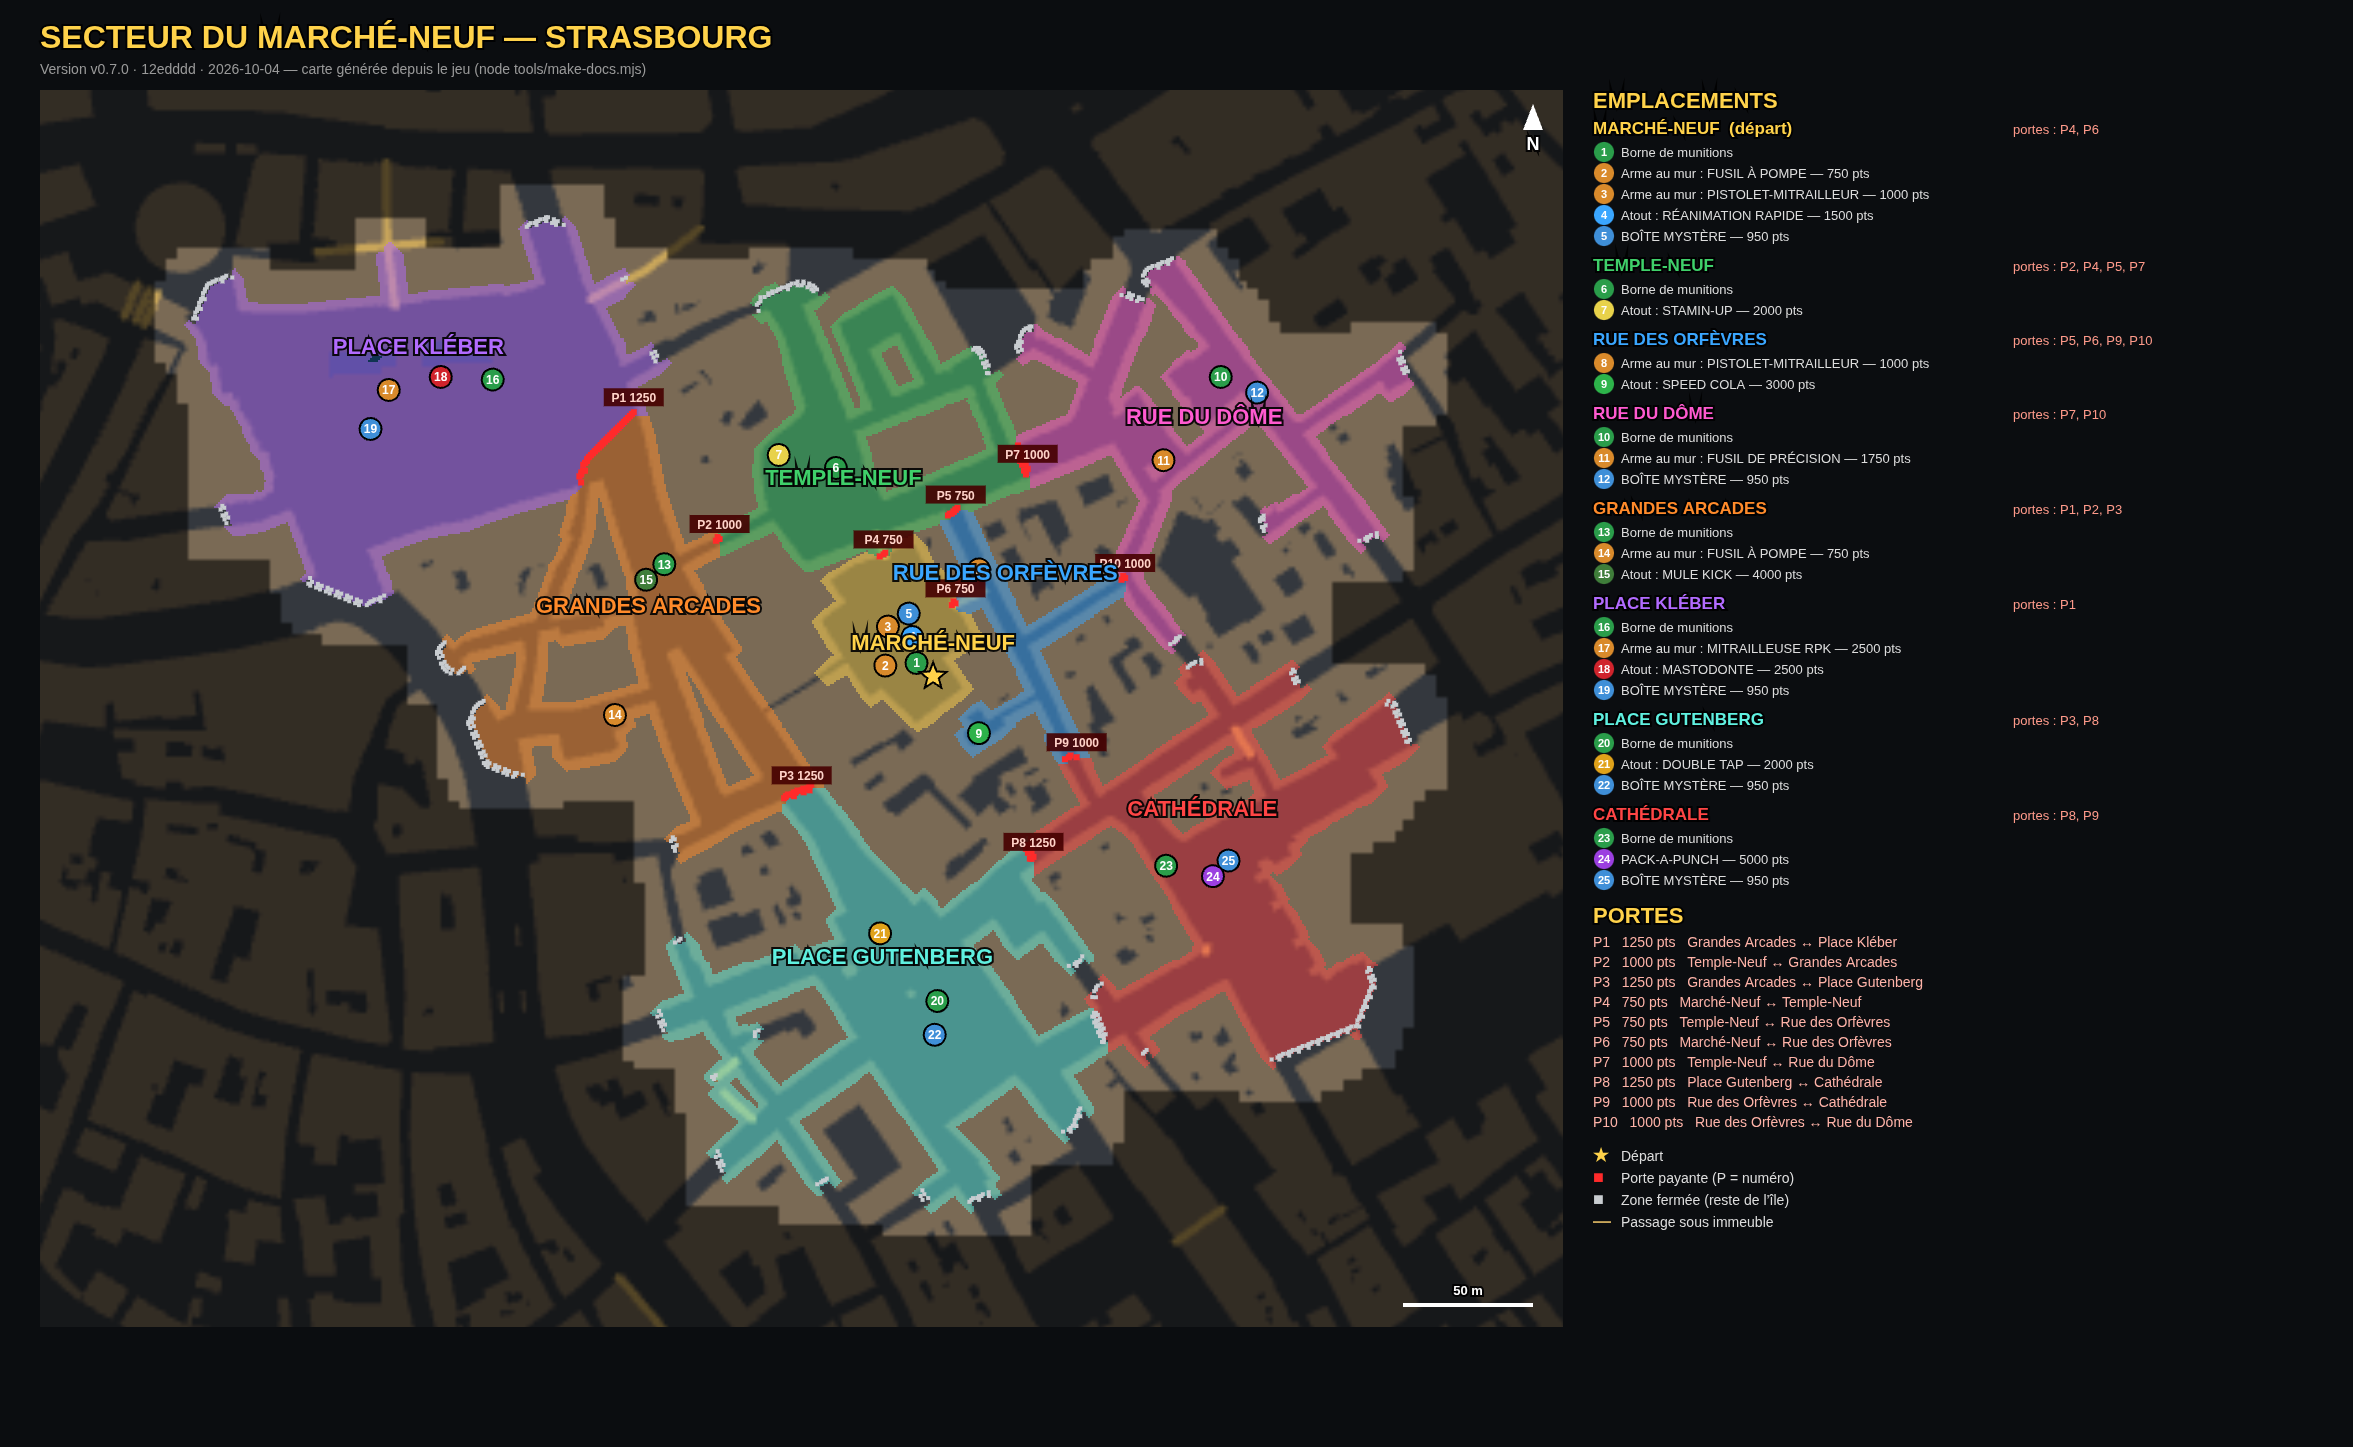
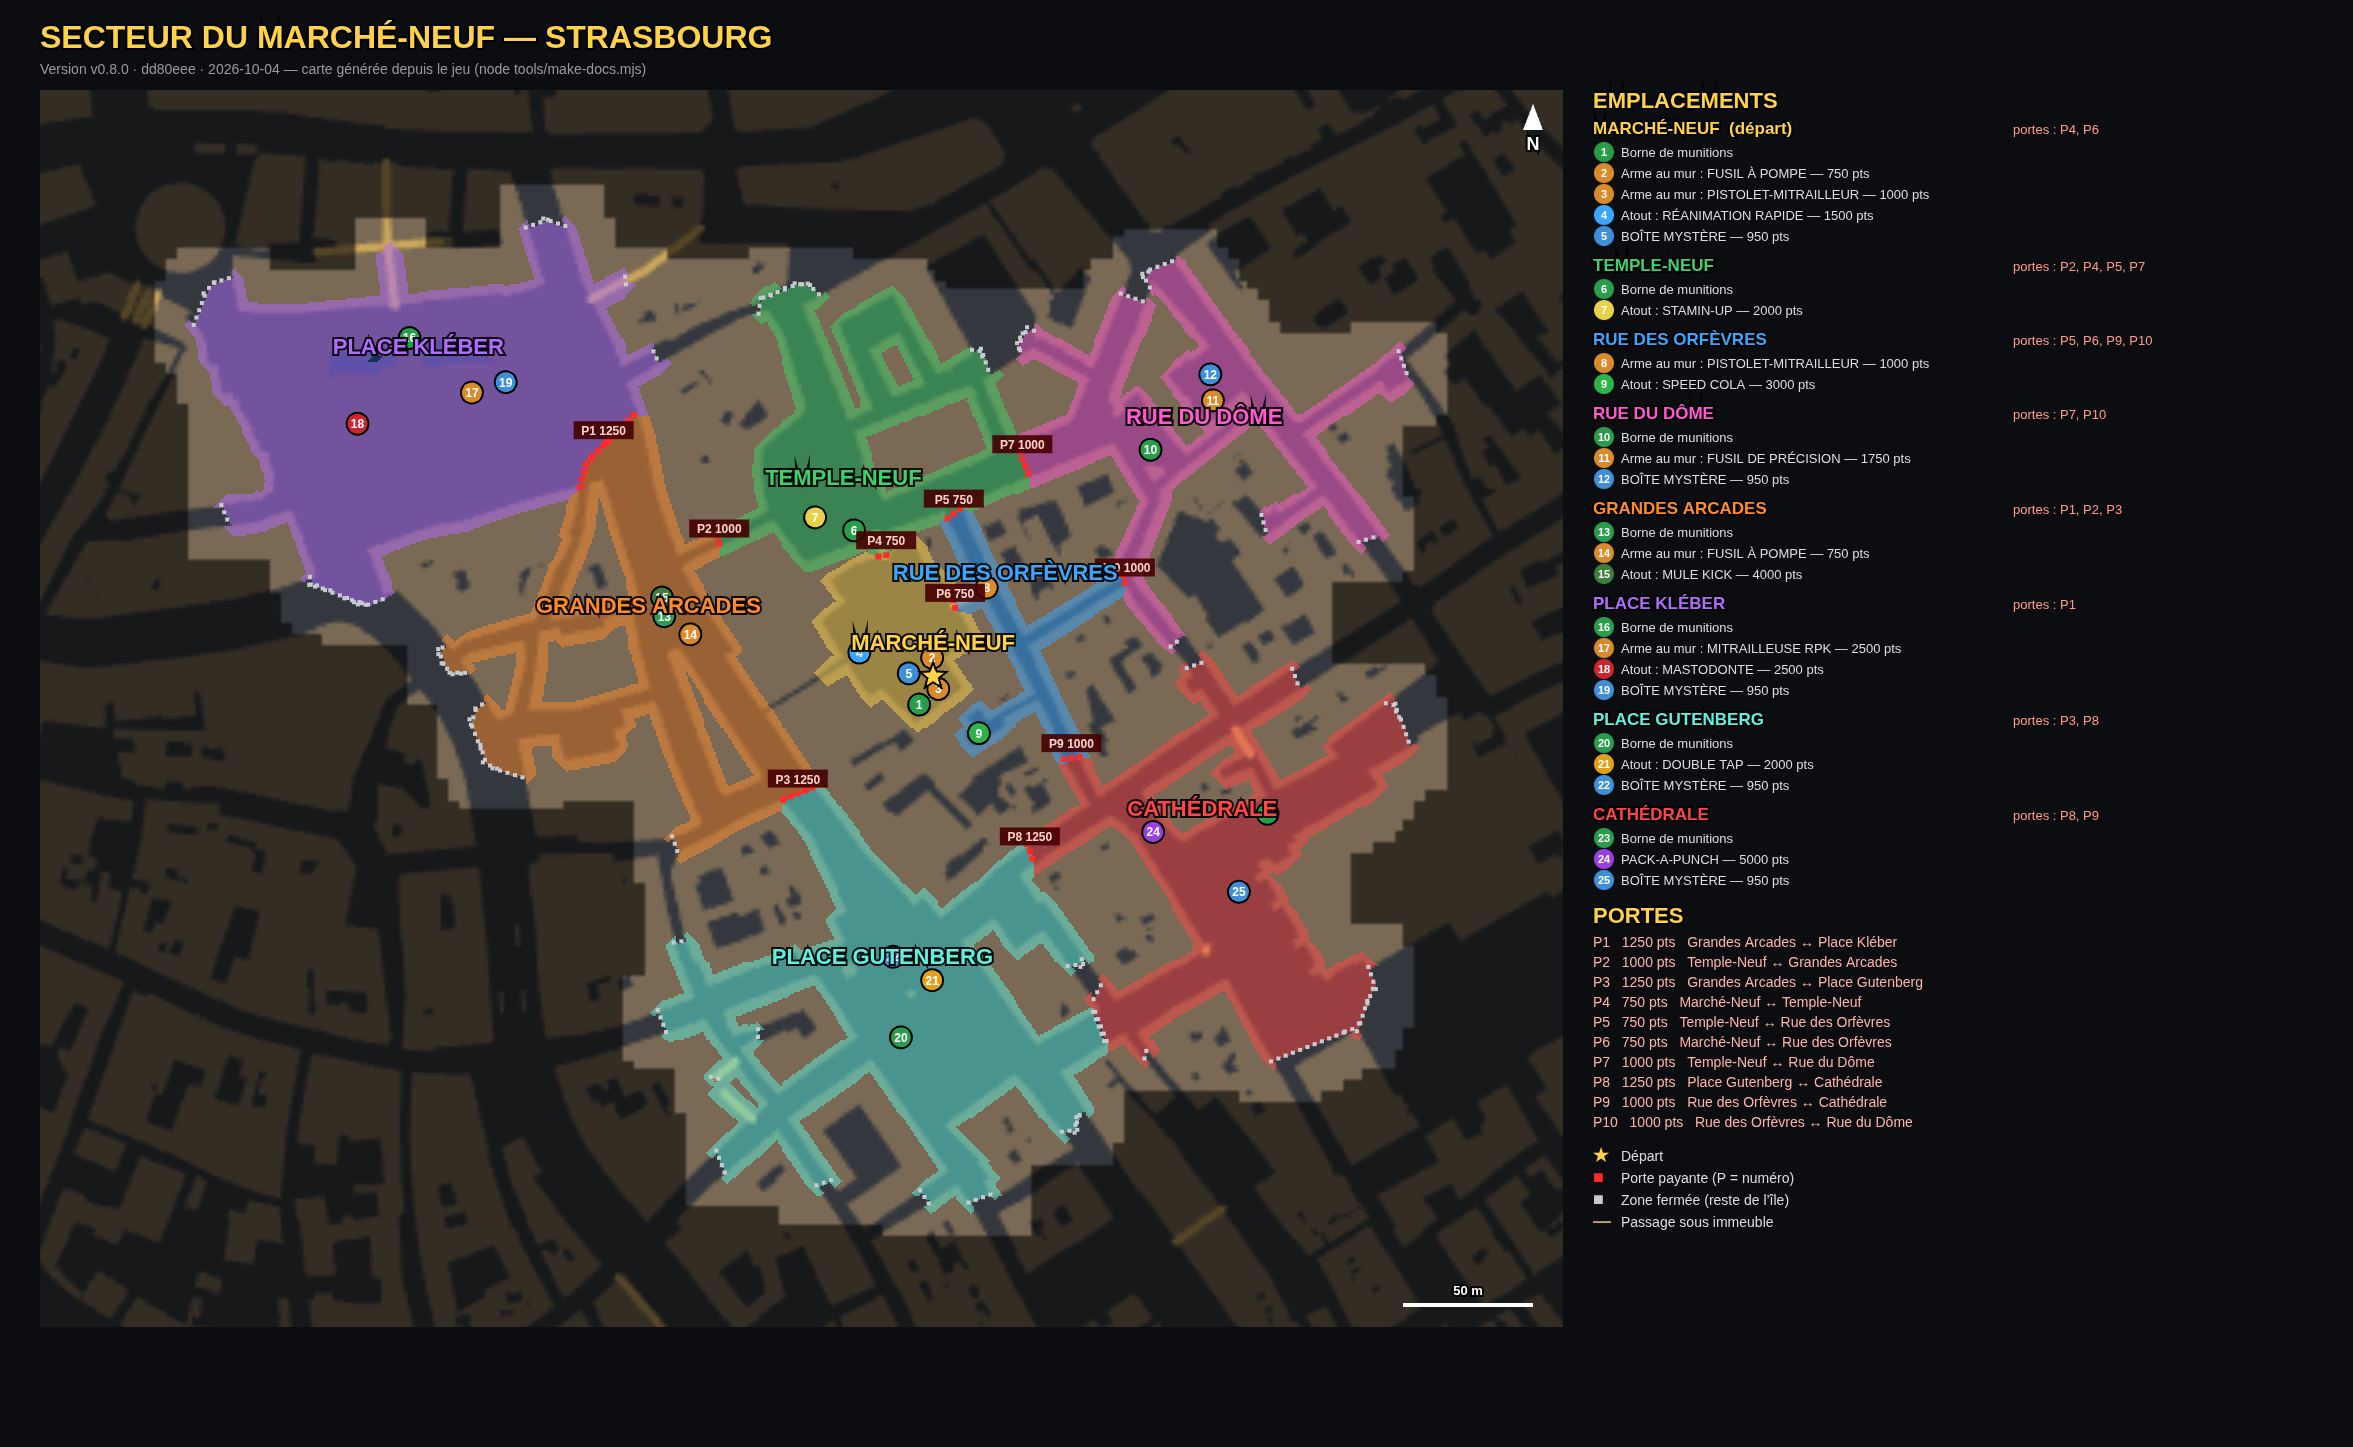
Regenerate docs (v0.8.0)

diff --git a/docs/REFERENCE.md b/docs/REFERENCE.md
@@ -1,6 +1,6 @@
 # Zombie Survival — fiche de référence
 
-Version du jeu : **v0.7.0 · 12edddd · 2026-10-04** (package 0.7.0). Générée automatiquement par `node tools/make-docs.mjs` à partir de `src/config.js` et du jeu.
+Version du jeu : **v0.8.0 · dd80eee · 2026-10-04** (package 0.8.0). Générée automatiquement par `node tools/make-docs.mjs` à partir de `src/config.js` et du jeu.
 Carte annotée : [carte.png](carte.png). Les mêmes tableaux en tableur : dossier [csv/](csv/).
 
 Pour demander une modification, citez la ligne (ex. « Mitrailleuse RPK : chargeur 100 », « Mastodonte à 3000 pts », « porte P3 à 500 pts », « mettre la boîte mystère dans la zone Temple-Neuf »).
@@ -188,31 +188,31 @@ Prix des portes : 750 pts pour une zone voisine du départ, +250 par zone plus l
 
 | N° sur la carte | Type | Nom | Zone | Prix (pts) | x (m, vers l'est) | z (m, vers le sud) |
 |---|---|---|---|---|---|---|
-| 1 | Borne de munitions | Borne de munitions | Marché-Neuf |  | -7 | -36 |
-| 2 | Arme au mur | FUSIL À POMPE | Marché-Neuf | 750 | -19 | -35 |
-| 3 | Arme au mur | PISTOLET-MITRAILLEUR | Marché-Neuf | 1000 | -18 | -50 |
-| 4 | Atout | RÉANIMATION RAPIDE | Marché-Neuf | 1500 | -14 | -46 |
-| 5 | BOÎTE MYSTÈRE | BOÎTE MYSTÈRE | Marché-Neuf | 950 | -10 | -55 |
-| 6 | Borne de munitions | Borne de munitions | Temple-Neuf |  | -38 | -111 |
-| 7 | Atout | STAMIN-UP | Temple-Neuf | 2000 | -60 | -116 |
-| 8 | Arme au mur | PISTOLET-MITRAILLEUR | Rue des Orfèvres | 1000 | 17 | -72 |
+| 1 | Borne de munitions | Borne de munitions | Marché-Neuf |  | -6 | -20 |
+| 2 | Arme au mur | FUSIL À POMPE | Marché-Neuf | 750 | -1 | -38 |
+| 3 | Arme au mur | PISTOLET-MITRAILLEUR | Marché-Neuf | 1000 | -4 | -26 |
+| 4 | Atout | RÉANIMATION RAPIDE | Marché-Neuf | 1500 | -29 | -40 |
+| 5 | BOÎTE MYSTÈRE | BOÎTE MYSTÈRE | Marché-Neuf | 950 | -10 | -32 |
+| 6 | Borne de munitions | Borne de munitions | Temple-Neuf |  | -31 | -87 |
+| 7 | Atout | STAMIN-UP | Temple-Neuf | 2000 | -46 | -92 |
+| 8 | Arme au mur | PISTOLET-MITRAILLEUR | Rue des Orfèvres | 1000 | 20 | -65 |
 | 9 | Atout | SPEED COLA | Rue des Orfèvres | 3000 | 17 | -9 |
-| 10 | Borne de munitions | Borne de munitions | Rue du Dôme |  | 110 | -146 |
-| 11 | Arme au mur | FUSIL DE PRÉCISION | Rue du Dôme | 1750 | 88 | -114 |
-| 12 | BOÎTE MYSTÈRE | BOÎTE MYSTÈRE | Rue du Dôme | 950 | 124 | -140 |
-| 13 | Borne de munitions | Borne de munitions | Grandes Arcades |  | -104 | -74 |
-| 14 | Arme au mur | FUSIL À POMPE | Grandes Arcades | 750 | -123 | -16 |
-| 15 | Atout | MULE KICK | Grandes Arcades | 4000 | -111 | -68 |
-| 16 | Borne de munitions | Borne de munitions | Place Kléber |  | -170 | -145 |
-| 17 | Arme au mur | MITRAILLEUSE RPK | Place Kléber | 2500 | -210 | -141 |
-| 18 | Atout | MASTODONTE | Place Kléber | 2500 | -190 | -146 |
-| 19 | BOÎTE MYSTÈRE | BOÎTE MYSTÈRE | Place Kléber | 950 | -217 | -126 |
-| 20 | Borne de munitions | Borne de munitions | Place Gutenberg |  | 1 | 94 |
-| 21 | Atout | DOUBLE TAP | Place Gutenberg | 2000 | -21 | 68 |
-| 22 | BOÎTE MYSTÈRE | BOÎTE MYSTÈRE | Place Gutenberg | 950 | 0 | 107 |
-| 23 | Borne de munitions | Borne de munitions | Cathédrale |  | 89 | 42 |
-| 24 | PACK-A-PUNCH | PACK-A-PUNCH | Cathédrale | 5000 | 107 | 46 |
-| 25 | BOÎTE MYSTÈRE | BOÎTE MYSTÈRE | Cathédrale | 950 | 113 | 40 |
+| 10 | Borne de munitions | Borne de munitions | Rue du Dôme |  | 83 | -118 |
+| 11 | Arme au mur | FUSIL DE PRÉCISION | Rue du Dôme | 1750 | 107 | -137 |
+| 12 | BOÎTE MYSTÈRE | BOÎTE MYSTÈRE | Rue du Dôme | 950 | 106 | -147 |
+| 13 | Borne de munitions | Borne de munitions | Grandes Arcades |  | -104 | -54 |
+| 14 | Arme au mur | FUSIL À POMPE | Grandes Arcades | 750 | -94 | -47 |
+| 15 | Atout | MULE KICK | Grandes Arcades | 4000 | -105 | -61 |
+| 16 | Borne de munitions | Borne de munitions | Place Kléber |  | -202 | -161 |
+| 17 | Arme au mur | MITRAILLEUSE RPK | Place Kléber | 2500 | -178 | -140 |
+| 18 | Atout | MASTODONTE | Place Kléber | 2500 | -222 | -128 |
+| 19 | BOÎTE MYSTÈRE | BOÎTE MYSTÈRE | Place Kléber | 950 | -165 | -144 |
+| 20 | Borne de munitions | Borne de munitions | Place Gutenberg |  | -13 | 108 |
+| 21 | Atout | DOUBLE TAP | Place Gutenberg | 2000 | -1 | 86 |
+| 22 | BOÎTE MYSTÈRE | BOÎTE MYSTÈRE | Place Gutenberg | 950 | -16 | 77 |
+| 23 | Borne de munitions | Borne de munitions | Cathédrale |  | 128 | 22 |
+| 24 | PACK-A-PUNCH | PACK-A-PUNCH | Cathédrale | 5000 | 84 | 29 |
+| 25 | BOÎTE MYSTÈRE | BOÎTE MYSTÈRE | Cathédrale | 950 | 117 | 52 |
 
 ## Commandes
 
